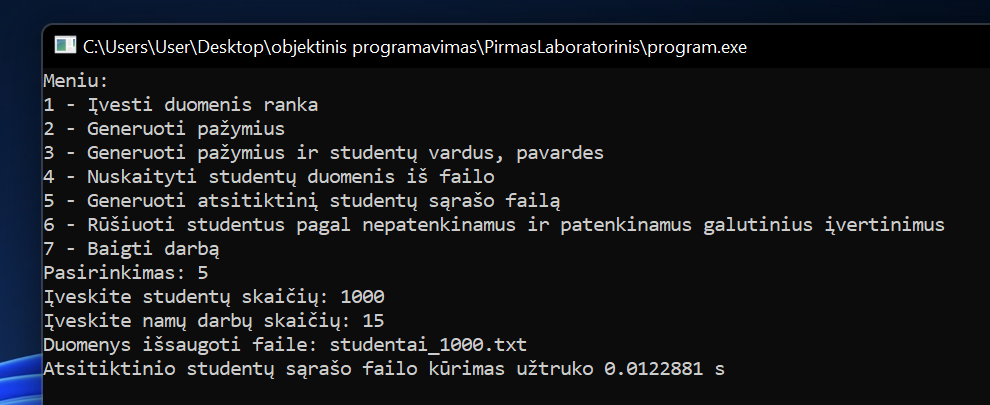
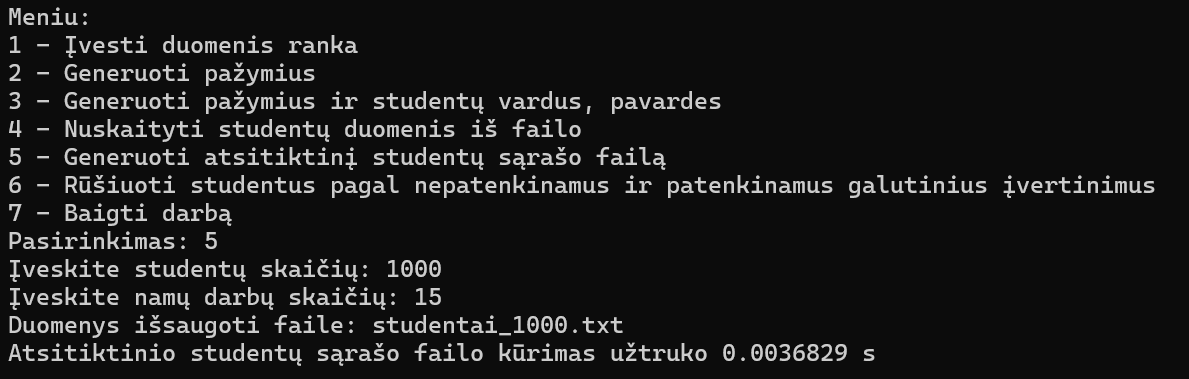
pakeista į stringstream
vykdymo laikas sumažėjo maždaug perpus

Changed region(s): [[0.0, 0.0, 0.9697, 1.0]]

diff --git a/main.cpp b/main.cpp
@@ -106,23 +106,25 @@ int main() {
                 Timer t;
                 std::ofstream rezultatuFailas(failoPavadinimas);
                 if (rezultatuFailas.is_open()) {
-                    rezultatuFailas << std::left << std::setw(20) << "Vardas" << std::right << std::setw(20) << "Pavarde";
+                    std::stringstream eilutesSrautas;
+                    eilutesSrautas << std::left << std::setw(20) << "Vardas" << std::right << std::setw(20) << "Pavarde";
                     for (int i = 0; i < namuDarbuSkaicius; i++) {
-                        rezultatuFailas << std::setw(10) << "ND" + std::to_string(i + 1);
+                        eilutesSrautas << std::setw(10) << "ND" + std::to_string(i + 1);
                     }
-                    rezultatuFailas << std::setw(10) << "Egz." << std::endl;
+                    eilutesSrautas << std::setw(10) << "Egz." << std::endl;
                     for (int i = 0; i < studentuSkaicius; i++) {
                         std::string vardas = "Vardas" + std::to_string(i + 1);
                         std::string pavarde = "Pavarde" + std::to_string(i + 1);
-                        rezultatuFailas << std::left << std::setw(20) << vardas;
-                        rezultatuFailas << std::right << std::setw(20) << pavarde;
+                        eilutesSrautas << std::left << std::setw(20) << vardas;
+                        eilutesSrautas << std::right << std::setw(20) << pavarde;
                         for (int v = 0; v < namuDarbuSkaicius; v++) {
                             int pazymys = generuotiAtsitiktiniSkaiciu(1, 10);
-                            rezultatuFailas << std::setw(10) << pazymys;
+                            eilutesSrautas << std::setw(10) << pazymys;
                         }
                         int egzaminas = generuotiAtsitiktiniSkaiciu(1, 10);
-                        rezultatuFailas << std::setw(10) << egzaminas << std::endl;
+                        eilutesSrautas << std::setw(10) << egzaminas << std::endl;
                     }
+                    rezultatuFailas << eilutesSrautas.str();
                     rezultatuFailas.close();
                     std::cout << "Duomenys išsaugoti faile: " << failoPavadinimas << '\n';
                     std::cout << "Atsitiktinio studentų sąrašo failo kūrimas užtruko " << t.elapsed() << " s\n";

diff --git a/README.md b/README.md
@@ -10,12 +10,12 @@ Kiekvieno programos paleidimo tyrimo metu nuotraukas galite matyti [čia](https:
 
 Kiekvienam failui generuojama 15 namų darbų pažymių.
 
-| Bandymo nr. | 1,000 (s)  | 10,000 (s)    | 100,000 (s)   | 1,000,000 (s) | 10,000,000 (s) |
-|------------|-------------|---------------|---------------|---------------|----------------|
-| #1         | 0.0122881   | 0.0562507     | 0.525285      | 5.12021       | 50.9886        |
-| #2         | 0.0065812   | 0.0552215     | 0.487528      | 4.86378       | 47.3717        |
-| #3         | 0.0060949   | 0.0546876     | 0.495838      | 4.73056       | 50.3248        |
-| Avg        | 0.0083214   | 0.0553866     | 0.5028837     | 4.90485       | 49.5617        |
+| Bandymo nr. | 1,000 (s)   | 10,000 (s)    | 100,000 (s)   | 1,000,000 (s) | 10,000,000 (s) |
+|-------------|-------------|---------------|---------------|---------------|----------------|
+| #1          | 0.0036829   | 0.0224608     | 0.222447      | 2.55569       | 24.5616        |
+| #2          | 0.0026121   | 0.0223725     | 0.224537      | 2.47684       | 22.8554        |
+| #3          | 0.0026567   | 0.0225618     | 0.226477      | 2.60563       | 21.5269        |
+| Avg         | 0.0029839   | 0.022465033   | 0.224487      | 2.546053333   | 22.9813        |
 
 ## 2-as tyrimas – veiksmai su įvairaus dydžio failais
 
